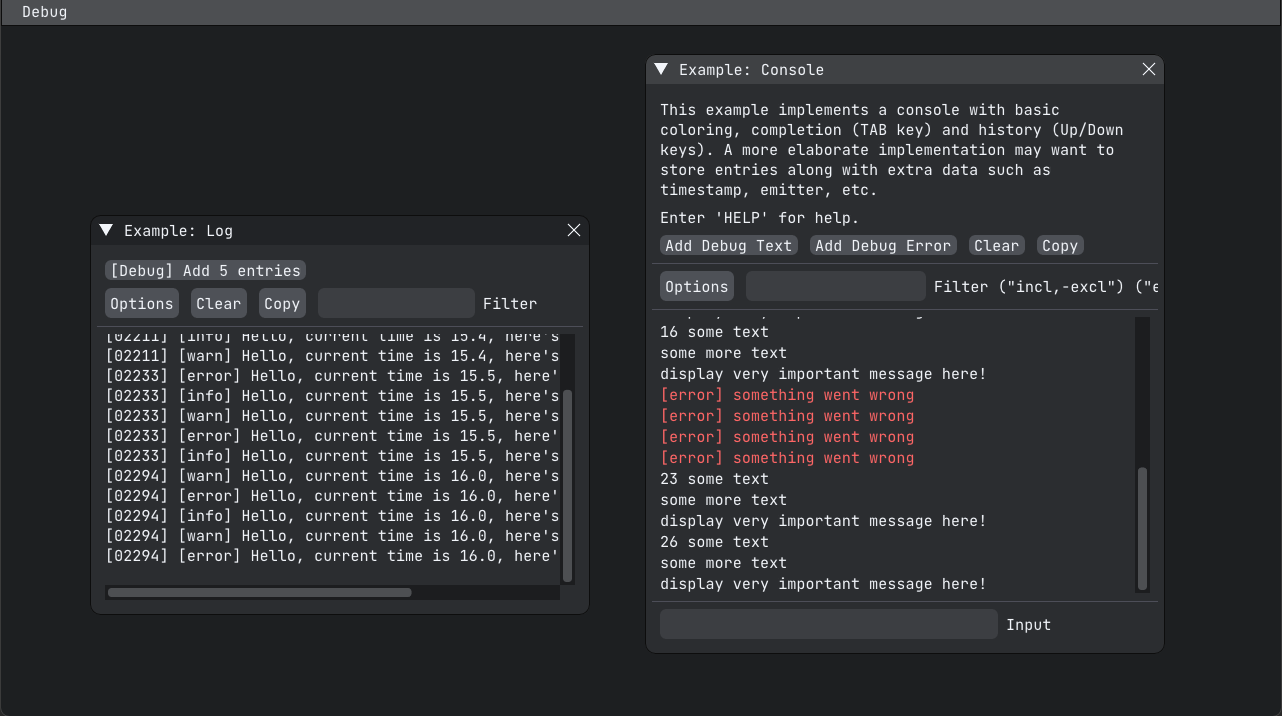
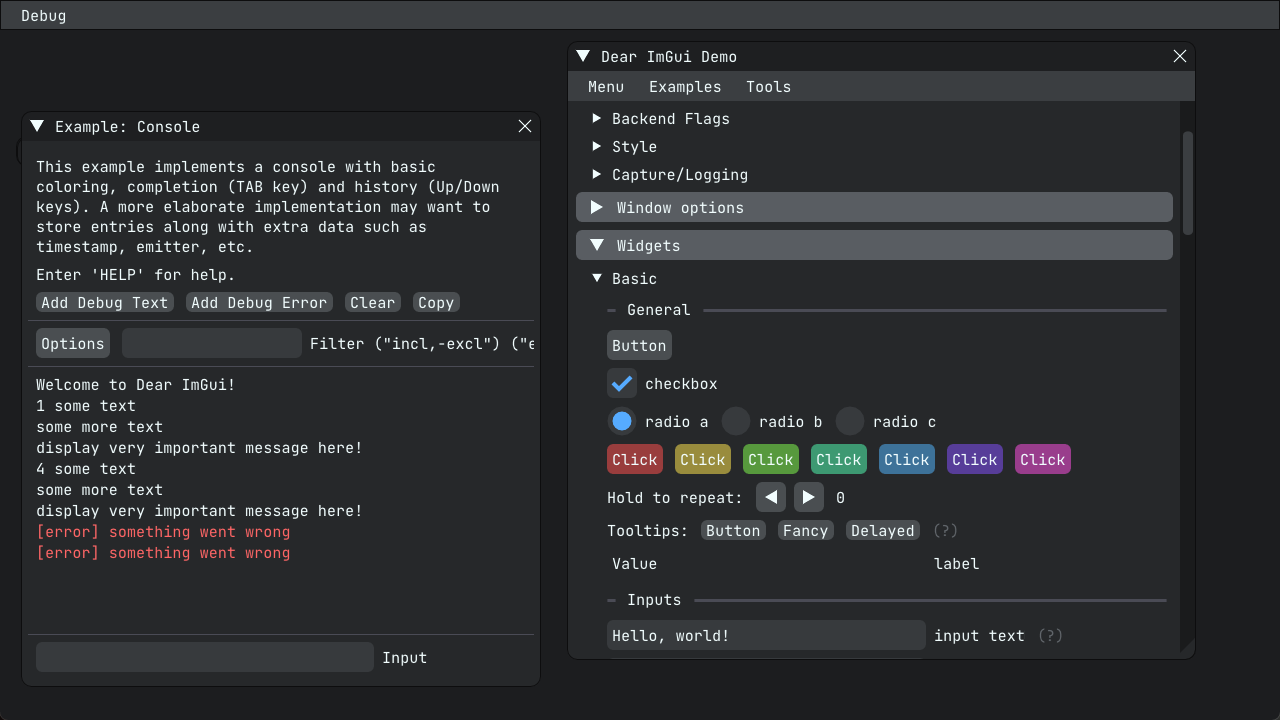
style

Changed region(s): [[0.0, 0.0, 1.0, 0.9218], [0.0, 0.8911, 0.3438, 0.9525], [0.0, 0.1536, 0.1562, 0.1844]]

diff --git a/src/style.h b/src/style.h
@@ -6,6 +6,11 @@
 #define IMGUI_GLFW_STYLE_H
 #include "imgui/imgui.h"
 
+constexpr ImVec4 Brigter( ImVec4 color, float power )
+{
+    return ImVec4( color.x * power, color.y * power, color.z * power, color.w );
+};
+
 void apply_custom_style( ImVec4& bg_color, ImGuiStyle* dst = NULL )
 {
     ImGuiStyle* style = dst ? dst : &ImGui::GetStyle();
@@ -23,43 +28,76 @@ void apply_custom_style( ImVec4& bg_color, ImGuiStyle* dst = NULL )
     style->GrabRounding      = 7.0;
     style->FrameRounding     = 6.0;
 
-    colors[ImGuiCol_Text]                 = ImVec4( 0.95, 0.96, 0.98, 1.00 );
-    colors[ImGuiCol_TextDisabled]         = ImVec4( 0.36, 0.42, 0.47, 1.00 );
-    colors[ImGuiCol_WindowBg]             = ImVec4( 43.f / 256, 45.f / 256, 48.f / 256, 1.f );
-    colors[ImGuiCol_ChildBg]              = ImVec4( 43.f / 256, 45.f / 256, 48.f / 256, 1.f );
-    colors[ImGuiCol_MenuBarBg]            = ImVec4( 0.30, 0.31, 0.32, 1.00 );
-    colors[ImGuiCol_PopupBg]              = ImVec4( 0.30, 0.31, 0.32, 1.00 );
-    colors[ImGuiCol_Border]               = ImVec4( 0.05, 0.05, 0.05, 1.00 );
-    colors[ImGuiCol_BorderShadow]         = ImVec4( 0.50, 0.50, 0.50, 0.50 );
-    colors[ImGuiCol_FrameBg]              = ImVec4( 60.f / 256, 62.f / 256, 66.f / 256, 1.f );
-    colors[ImGuiCol_FrameBgHovered]       = ImVec4( 68.f / 256, 71.f / 256, 77.f / 256, 1.f );
-    colors[ImGuiCol_FrameBgActive]        = ImVec4( 78.f / 256, 81.f / 256, 87.f / 256, 1.f );
-    colors[ImGuiCol_TitleBg]              = ImVec4( 33.f / 256, 35.f / 256, 38.f / 256, 1.f );
-    colors[ImGuiCol_TitleBgCollapsed]     = ImVec4( 33.f / 256, 35.f / 256, 38.f / 256, 1.f );
-    colors[ImGuiCol_TitleBgActive]        = ImVec4( 63.f / 256, 65.f / 256, 68.f / 256, 1.f );
-    colors[ImGuiCol_ScrollbarBg]          = ImVec4( 0.02, 0.02, 0.02, 0.39 );
-    colors[ImGuiCol_ScrollbarGrab]        = ImVec4( 0.30, 0.31, 0.32, 1.00 );
-    colors[ImGuiCol_ScrollbarGrabHovered] = ImVec4( 0.40, 0.41, 0.42, 1.00 );
-    colors[ImGuiCol_ScrollbarGrabActive]  = ImVec4( 0.06, 0.53, 0.98, 1.00 );
-    colors[ImGuiCol_CheckMark]            = ImVec4( 0.06, 0.53, 0.98, 1.00 );
-    colors[ImGuiCol_SliderGrab]           = ImVec4( 0.28, 0.56, 1.00, 1.00 );
-    colors[ImGuiCol_SliderGrabActive]     = ImVec4( 0.37, 0.61, 1.00, 1.00 );
-    colors[ImGuiCol_Button]               = ImVec4( 78.f / 256, 81.f / 256, 87.f / 256, 1.f );
-    colors[ImGuiCol_ButtonHovered]        = ImVec4( 0.28, 0.56, 1.00, 1.00 );
-    colors[ImGuiCol_ButtonActive]         = ImVec4( 0.06, 0.53, 0.98, 1.00 );
-    colors[ImGuiCol_Header]               = ImVec4( 0.20, 0.25, 0.29, 0.55 );
-    colors[ImGuiCol_HeaderHovered]        = ImVec4( 0.26, 0.59, 0.98, 0.80 );
-    colors[ImGuiCol_HeaderActive]         = ImVec4( 0.26, 0.59, 0.98, 1.00 );
-    colors[ImGuiCol_ResizeGrip]           = ImVec4( 43.f / 256, 45.f / 256, 48.f / 256, 1.f );
-    colors[ImGuiCol_ResizeGripHovered]    = ImVec4( 43.f / 256, 45.f / 256, 48.f / 256, 1.f );
-    colors[ImGuiCol_ResizeGripActive]     = ImVec4( 0.06, 0.53, 0.98, 1.00 );
-    colors[ImGuiCol_PlotLines]            = ImVec4( 0.61, 0.61, 0.61, 1.00 );
-    colors[ImGuiCol_PlotLinesHovered]     = ImVec4( 1.00, 0.43, 0.35, 1.00 );
-    colors[ImGuiCol_PlotHistogram]        = ImVec4( 0.90, 0.70, 0.00, 1.00 );
-    colors[ImGuiCol_PlotHistogramHovered] = ImVec4( 1.00, 0.60, 0.00, 1.00 );
-    colors[ImGuiCol_TextSelectedBg]       = ImVec4( 0.25, 1.00, 0.00, 0.43 );
+    constexpr float HUE_G = 1.05;
+    constexpr float HUE_B = 1.10;
 
-    bg_color = ImVec4( 29.f / 256, 31.f / 256, 33.f / 256, 1.f );
+    constexpr ImVec4 ACCENT_COLOR_1          = ImVec4( 0.28, 0.56, 1.00, 1.00 );
+    constexpr ImVec4 ACCENT_COLOR_1_BRIGHTER = Brigter( ACCENT_COLOR_1, 1.2 );
+    constexpr ImVec4 ACCENT_COLOR_2          = ImVec4( 0.78, 0.71, 0.44, 1.00 );
+    constexpr ImVec4 ACCENT_COLOR_2_BRIGHTER = Brigter( ACCENT_COLOR_2, 1.2 );
+    constexpr ImVec4 ACCENT_COLOR_3          = ImVec4( 1.00, 0.43, 0.44, 1.00 );
+    constexpr ImVec4 ACCENT_COLOR_3_BRIGHTER = Brigter( ACCENT_COLOR_2, 1.2 );
+
+    constexpr ImVec4 ELEMENT_DEFAULT_COLOR     = ImVec4( 0.29, 0.29 * HUE_G, 0.29 * HUE_B, 1.0 );
+    constexpr ImVec4 ELEMENT_DARK_COLOR        = Brigter( ELEMENT_DEFAULT_COLOR, 0.8 );
+    constexpr ImVec4 ELEMENT_BRIGHT_COLOR      = Brigter( ELEMENT_DEFAULT_COLOR, 1.2 );
+    constexpr ImVec4 ELEMENT_VERY_BRIGHT_COLOR = Brigter( ELEMENT_DEFAULT_COLOR, 1.7 );
+    constexpr ImVec4 ELEMENT_BG_COLOR_1        = Brigter( ELEMENT_DEFAULT_COLOR, 0.75 );
+    constexpr ImVec4 ELEMENT_BG_COLOR_2        = Brigter( ELEMENT_DEFAULT_COLOR, 0.85 );
+    constexpr ImVec4 BACKGROUND_COLOR_1        = ImVec4( 0.05, 0.05 * HUE_G, 0.05 * HUE_B, 1.0 );
+    constexpr ImVec4 BACKGROUND_COLOR_2        = Brigter( BACKGROUND_COLOR_1, 2.0 );
+    constexpr ImVec4 WINDOW_BG_COLOR           = Brigter( BACKGROUND_COLOR_1, 3.0 );
+    constexpr ImVec4 TITLE_COLOR               = Brigter( ELEMENT_DARK_COLOR, 0.5 );
+    constexpr ImVec4 TITLE_ACTIVE_COLOR        = Brigter( ELEMENT_DARK_COLOR, 0.8 );
+    constexpr ImVec4 TEXT_COLOR                = ImVec4( 0.95, 0.95 * HUE_G, 0.95 * HUE_B, 1.0 );
+    constexpr ImVec4 TEXT_DISABLED_COLOR       = Brigter( TEXT_COLOR, 0.4f );
+
+    bg_color = ImVec4( 0.11, 0.11 * HUE_G, 0.11 * HUE_B, 1.00 );
+
+    colors[ImGuiCol_Text]                 = TEXT_COLOR;
+    colors[ImGuiCol_TextDisabled]         = TEXT_DISABLED_COLOR;
+    colors[ImGuiCol_TextSelectedBg]       = BACKGROUND_COLOR_1;
+    colors[ImGuiCol_WindowBg]             = WINDOW_BG_COLOR;
+    colors[ImGuiCol_ChildBg]              = WINDOW_BG_COLOR;
+    colors[ImGuiCol_MenuBarBg]            = ELEMENT_DARK_COLOR;
+    colors[ImGuiCol_PopupBg]              = ELEMENT_DARK_COLOR;
+    colors[ImGuiCol_Border]               = BACKGROUND_COLOR_1;
+    colors[ImGuiCol_BorderShadow]         = BACKGROUND_COLOR_1;
+    colors[ImGuiCol_FrameBg]              = ELEMENT_BG_COLOR_1;
+    colors[ImGuiCol_FrameBgHovered]       = ELEMENT_BG_COLOR_2;
+    colors[ImGuiCol_FrameBgActive]        = ELEMENT_DEFAULT_COLOR;
+    colors[ImGuiCol_TitleBg]              = TITLE_COLOR;
+    colors[ImGuiCol_TitleBgCollapsed]     = TITLE_COLOR;
+    colors[ImGuiCol_TitleBgActive]        = TITLE_ACTIVE_COLOR;
+    colors[ImGuiCol_ScrollbarBg]          = BACKGROUND_COLOR_2;
+    colors[ImGuiCol_ScrollbarGrab]        = ELEMENT_DARK_COLOR;
+    colors[ImGuiCol_ScrollbarGrabHovered] = ELEMENT_BRIGHT_COLOR;
+    colors[ImGuiCol_ScrollbarGrabActive]  = ACCENT_COLOR_1;
+    colors[ImGuiCol_CheckMark]            = ACCENT_COLOR_1_BRIGHTER;
+    colors[ImGuiCol_SliderGrab]           = ELEMENT_BRIGHT_COLOR;
+    colors[ImGuiCol_SliderGrabActive]     = ACCENT_COLOR_1_BRIGHTER;
+    colors[ImGuiCol_Button]               = ELEMENT_DEFAULT_COLOR;
+    colors[ImGuiCol_ButtonHovered]        = ACCENT_COLOR_1;
+    colors[ImGuiCol_ButtonActive]         = ACCENT_COLOR_1_BRIGHTER;
+    colors[ImGuiCol_Header]               = ELEMENT_BRIGHT_COLOR;
+    colors[ImGuiCol_HeaderHovered]        = ACCENT_COLOR_1;
+    colors[ImGuiCol_HeaderActive]         = ACCENT_COLOR_1_BRIGHTER;
+    colors[ImGuiCol_ResizeGrip]           = WINDOW_BG_COLOR;
+    colors[ImGuiCol_ResizeGripHovered]    = WINDOW_BG_COLOR;
+    colors[ImGuiCol_ResizeGripActive]     = ACCENT_COLOR_1;
+    colors[ImGuiCol_PlotLines]            = ACCENT_COLOR_2;
+    colors[ImGuiCol_PlotLinesHovered]     = ACCENT_COLOR_2_BRIGHTER;
+    colors[ImGuiCol_PlotHistogram]        = ACCENT_COLOR_2;
+    colors[ImGuiCol_PlotHistogramHovered] = ACCENT_COLOR_2_BRIGHTER;
+    colors[ImGuiCol_Tab]                  = ELEMENT_BRIGHT_COLOR;
+    colors[ImGuiCol_TabHovered]           = ACCENT_COLOR_1;
+    colors[ImGuiCol_TabActive]            = ACCENT_COLOR_1_BRIGHTER;
+    colors[ImGuiCol_TabUnfocused]         = ELEMENT_DEFAULT_COLOR;
+    colors[ImGuiCol_TabUnfocusedActive]   = ELEMENT_BRIGHT_COLOR;
+    colors[ImGuiCol_SeparatorActive]      = ELEMENT_BRIGHT_COLOR;
+    colors[ImGuiCol_SeparatorHovered]     = ELEMENT_VERY_BRIGHT_COLOR;
+    colors[ImGuiCol_SeparatorActive]      = ACCENT_COLOR_1;
+    colors[ImGuiCol_DragDropTarget]       = ACCENT_COLOR_2_BRIGHTER;
 
     ImGuiIO& io      = ImGui::GetIO();
     ImFont* mainfont = io.Fonts->AddFontFromFileTTF(

diff --git a/src/app.h b/src/app.h
@@ -19,6 +19,8 @@ bool show_main_window  = true;
 static bool show_app_console = false;
 static bool show_app_log     = false;
 
+static bool show_demo_window = true;
+
 static bool show_app_metrics      = false;
 static bool show_app_debug_log    = false;
 static bool show_app_stack_tool   = false;
@@ -46,6 +48,9 @@ static void ShowWindows()
 
     if( show_main_window && !show_login_window )
         ShowMainWindow();
+
+    if (show_demo_window)
+        ImGui::ShowDemoWindow(&show_demo_window);
 
     if( show_app_console )
         ShowAppConsole( &show_app_console );
@@ -80,6 +85,7 @@ static void ShowDebugToolbar()
             ImGui::MenuItem( "Stack Tool", NULL, &show_app_stack_tool );
             ImGui::MenuItem( "Style Editor", NULL, &show_app_style_editor );
             ImGui::MenuItem( "About Dear ImGui", NULL, &show_app_about );
+            ImGui::MenuItem( "Demo Window", NULL, &show_demo_window );
             ImGui::EndMenu();
         }
         ImGui::EndMainMenuBar();

diff --git a/src/window/main_window.cpp b/src/window/main_window.cpp
@@ -41,9 +41,9 @@ void ShowMainWindow()
     if( maximize_main_window )
     {
         MaximizeMainWindow();
-        ImGui::Begin( "Main", &show_main_window, ImGuiWindowFlags_NoDecoration | ImGuiWindowFlags_NoResize );
+        ImGui::Begin( "Main", &show_main_window, ImGuiWindowFlags_NoDecoration | ImGuiWindowFlags_NoResize | ImGuiWindowFlags_NoBringToFrontOnFocus );
     }else{
-        ImGui::Begin( "Main", &show_main_window );
+        ImGui::Begin( "Main", NULL, ImGuiWindowFlags_NoBringToFrontOnFocus );
 
     }
 

diff --git a/README.md b/README.md
@@ -2,10 +2,12 @@
 
 ImGui application template with GLFW for rendering and CMake for building.
 
+Using a custom theme.
+
 ![](screen.png)
 
-## Build as native app
 
+## Build as native app
 
 ```
 mkdir -p build
